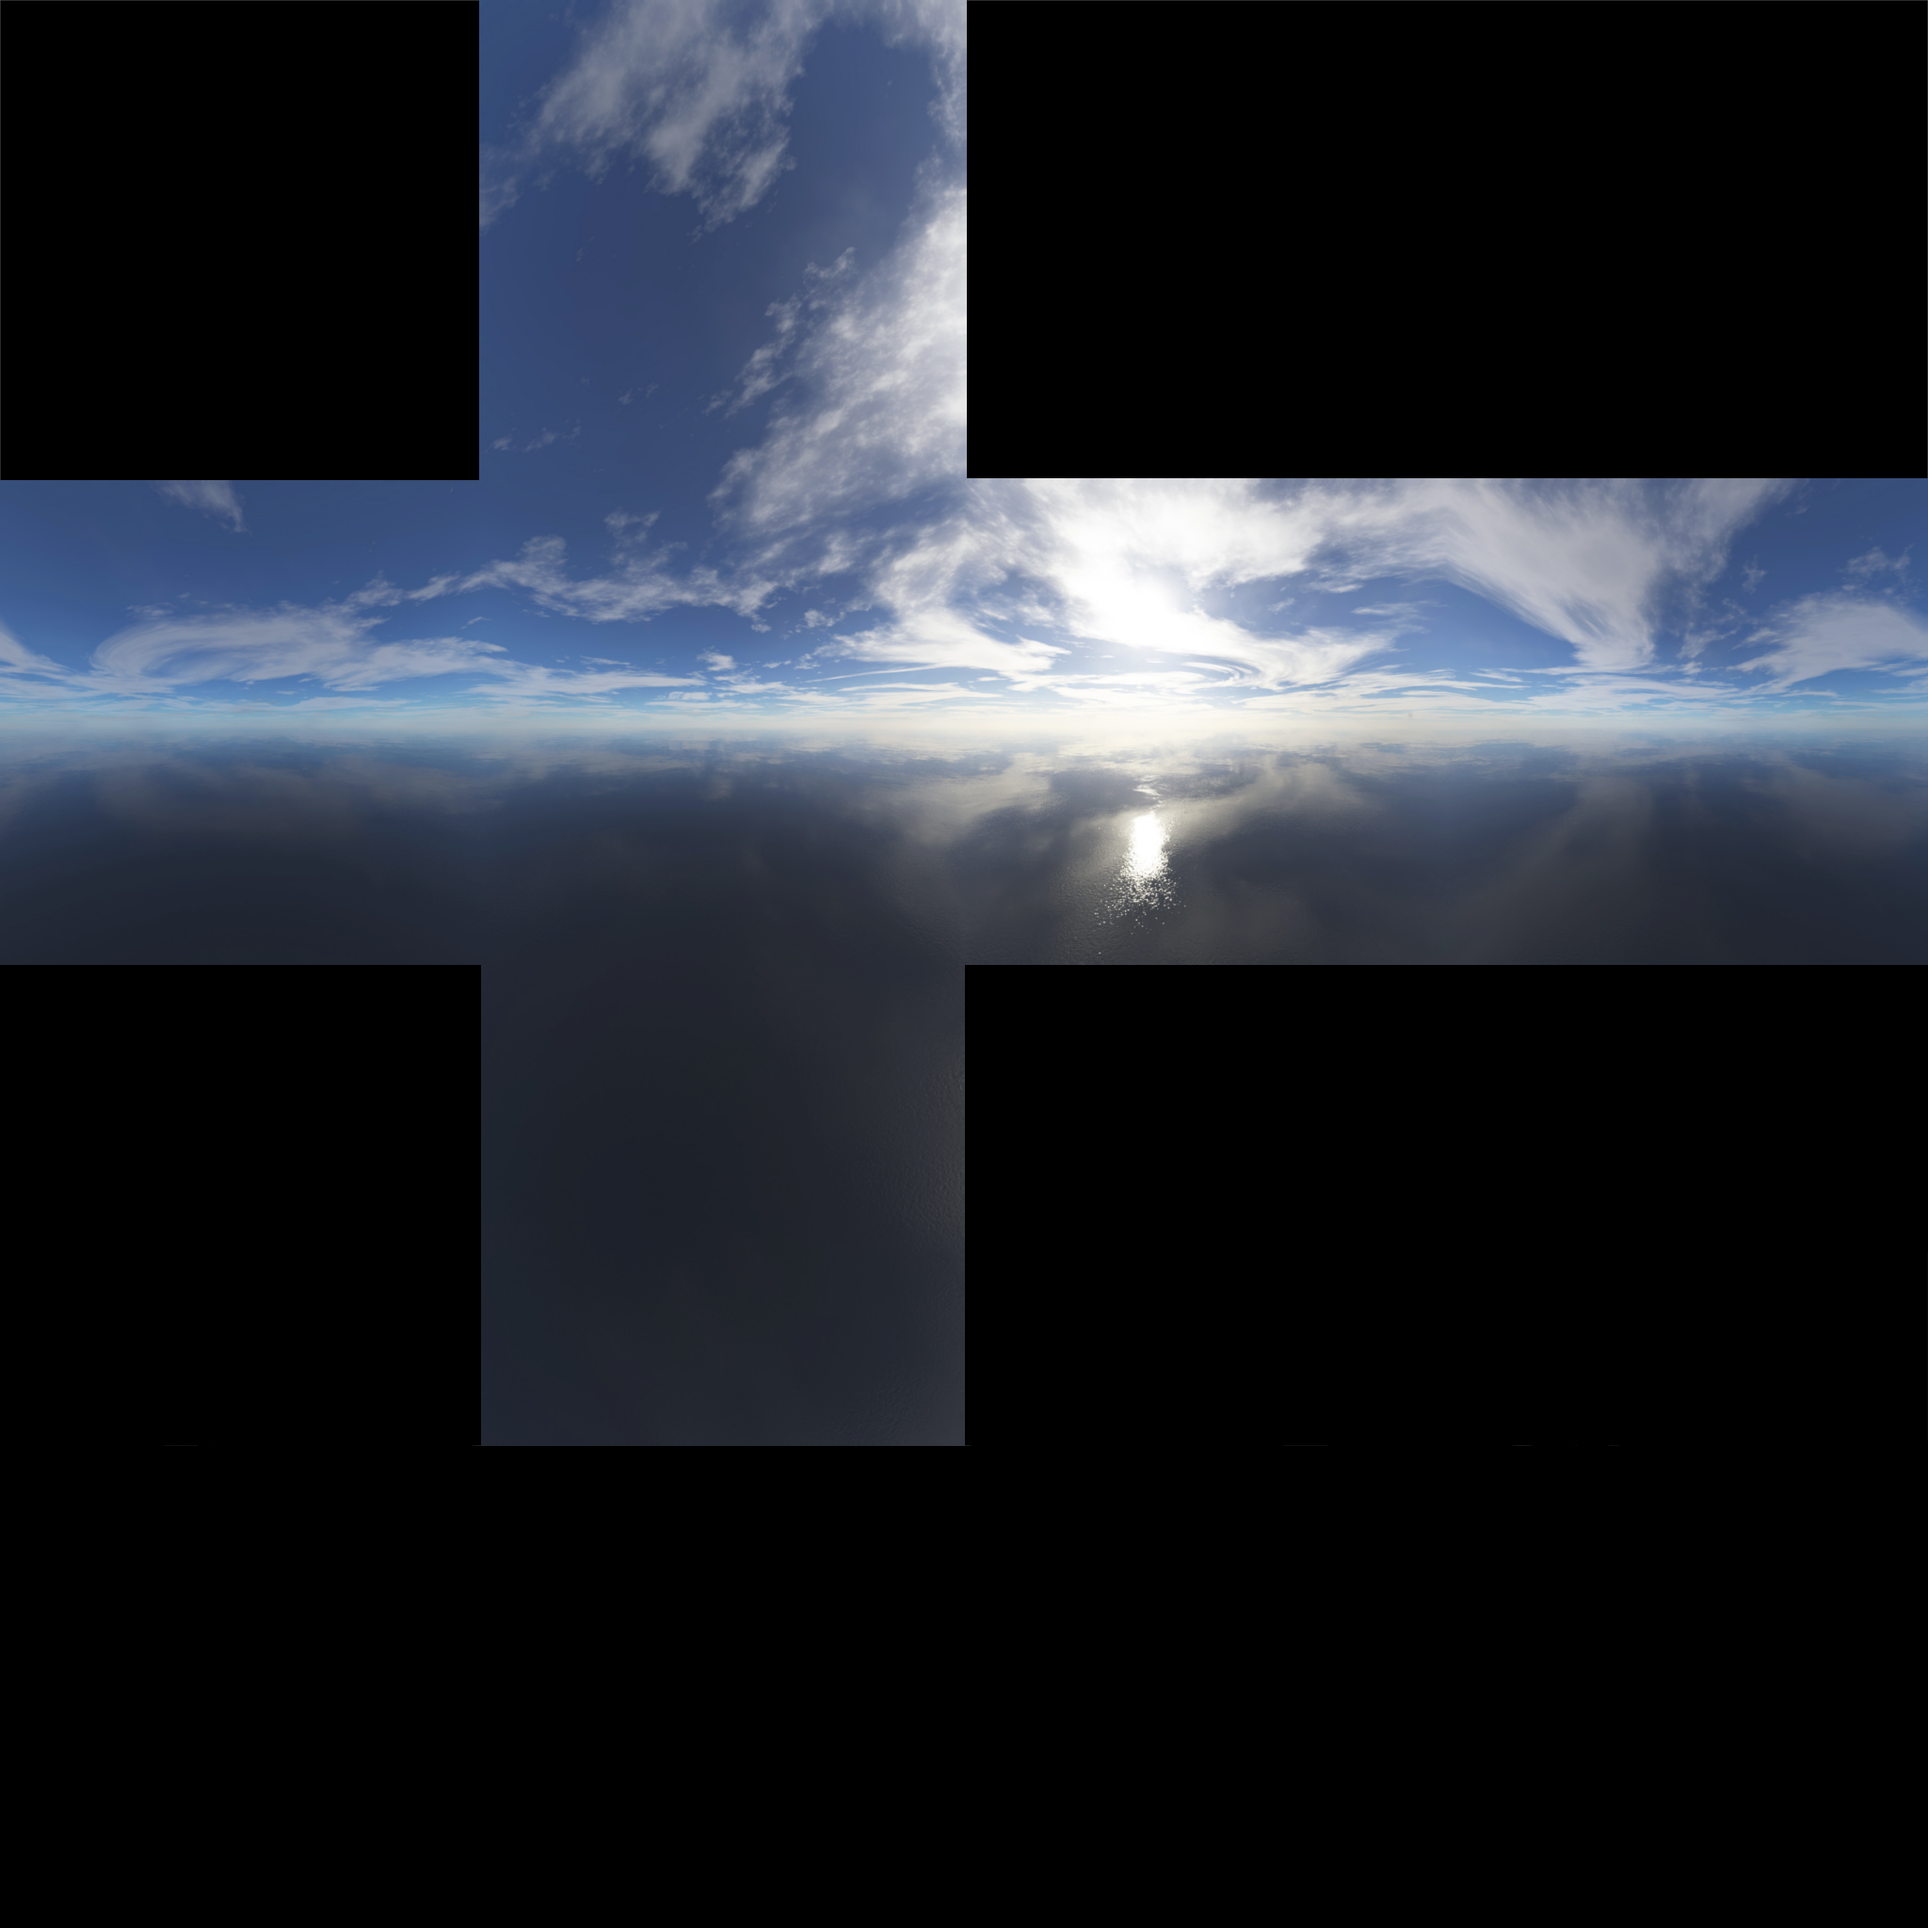
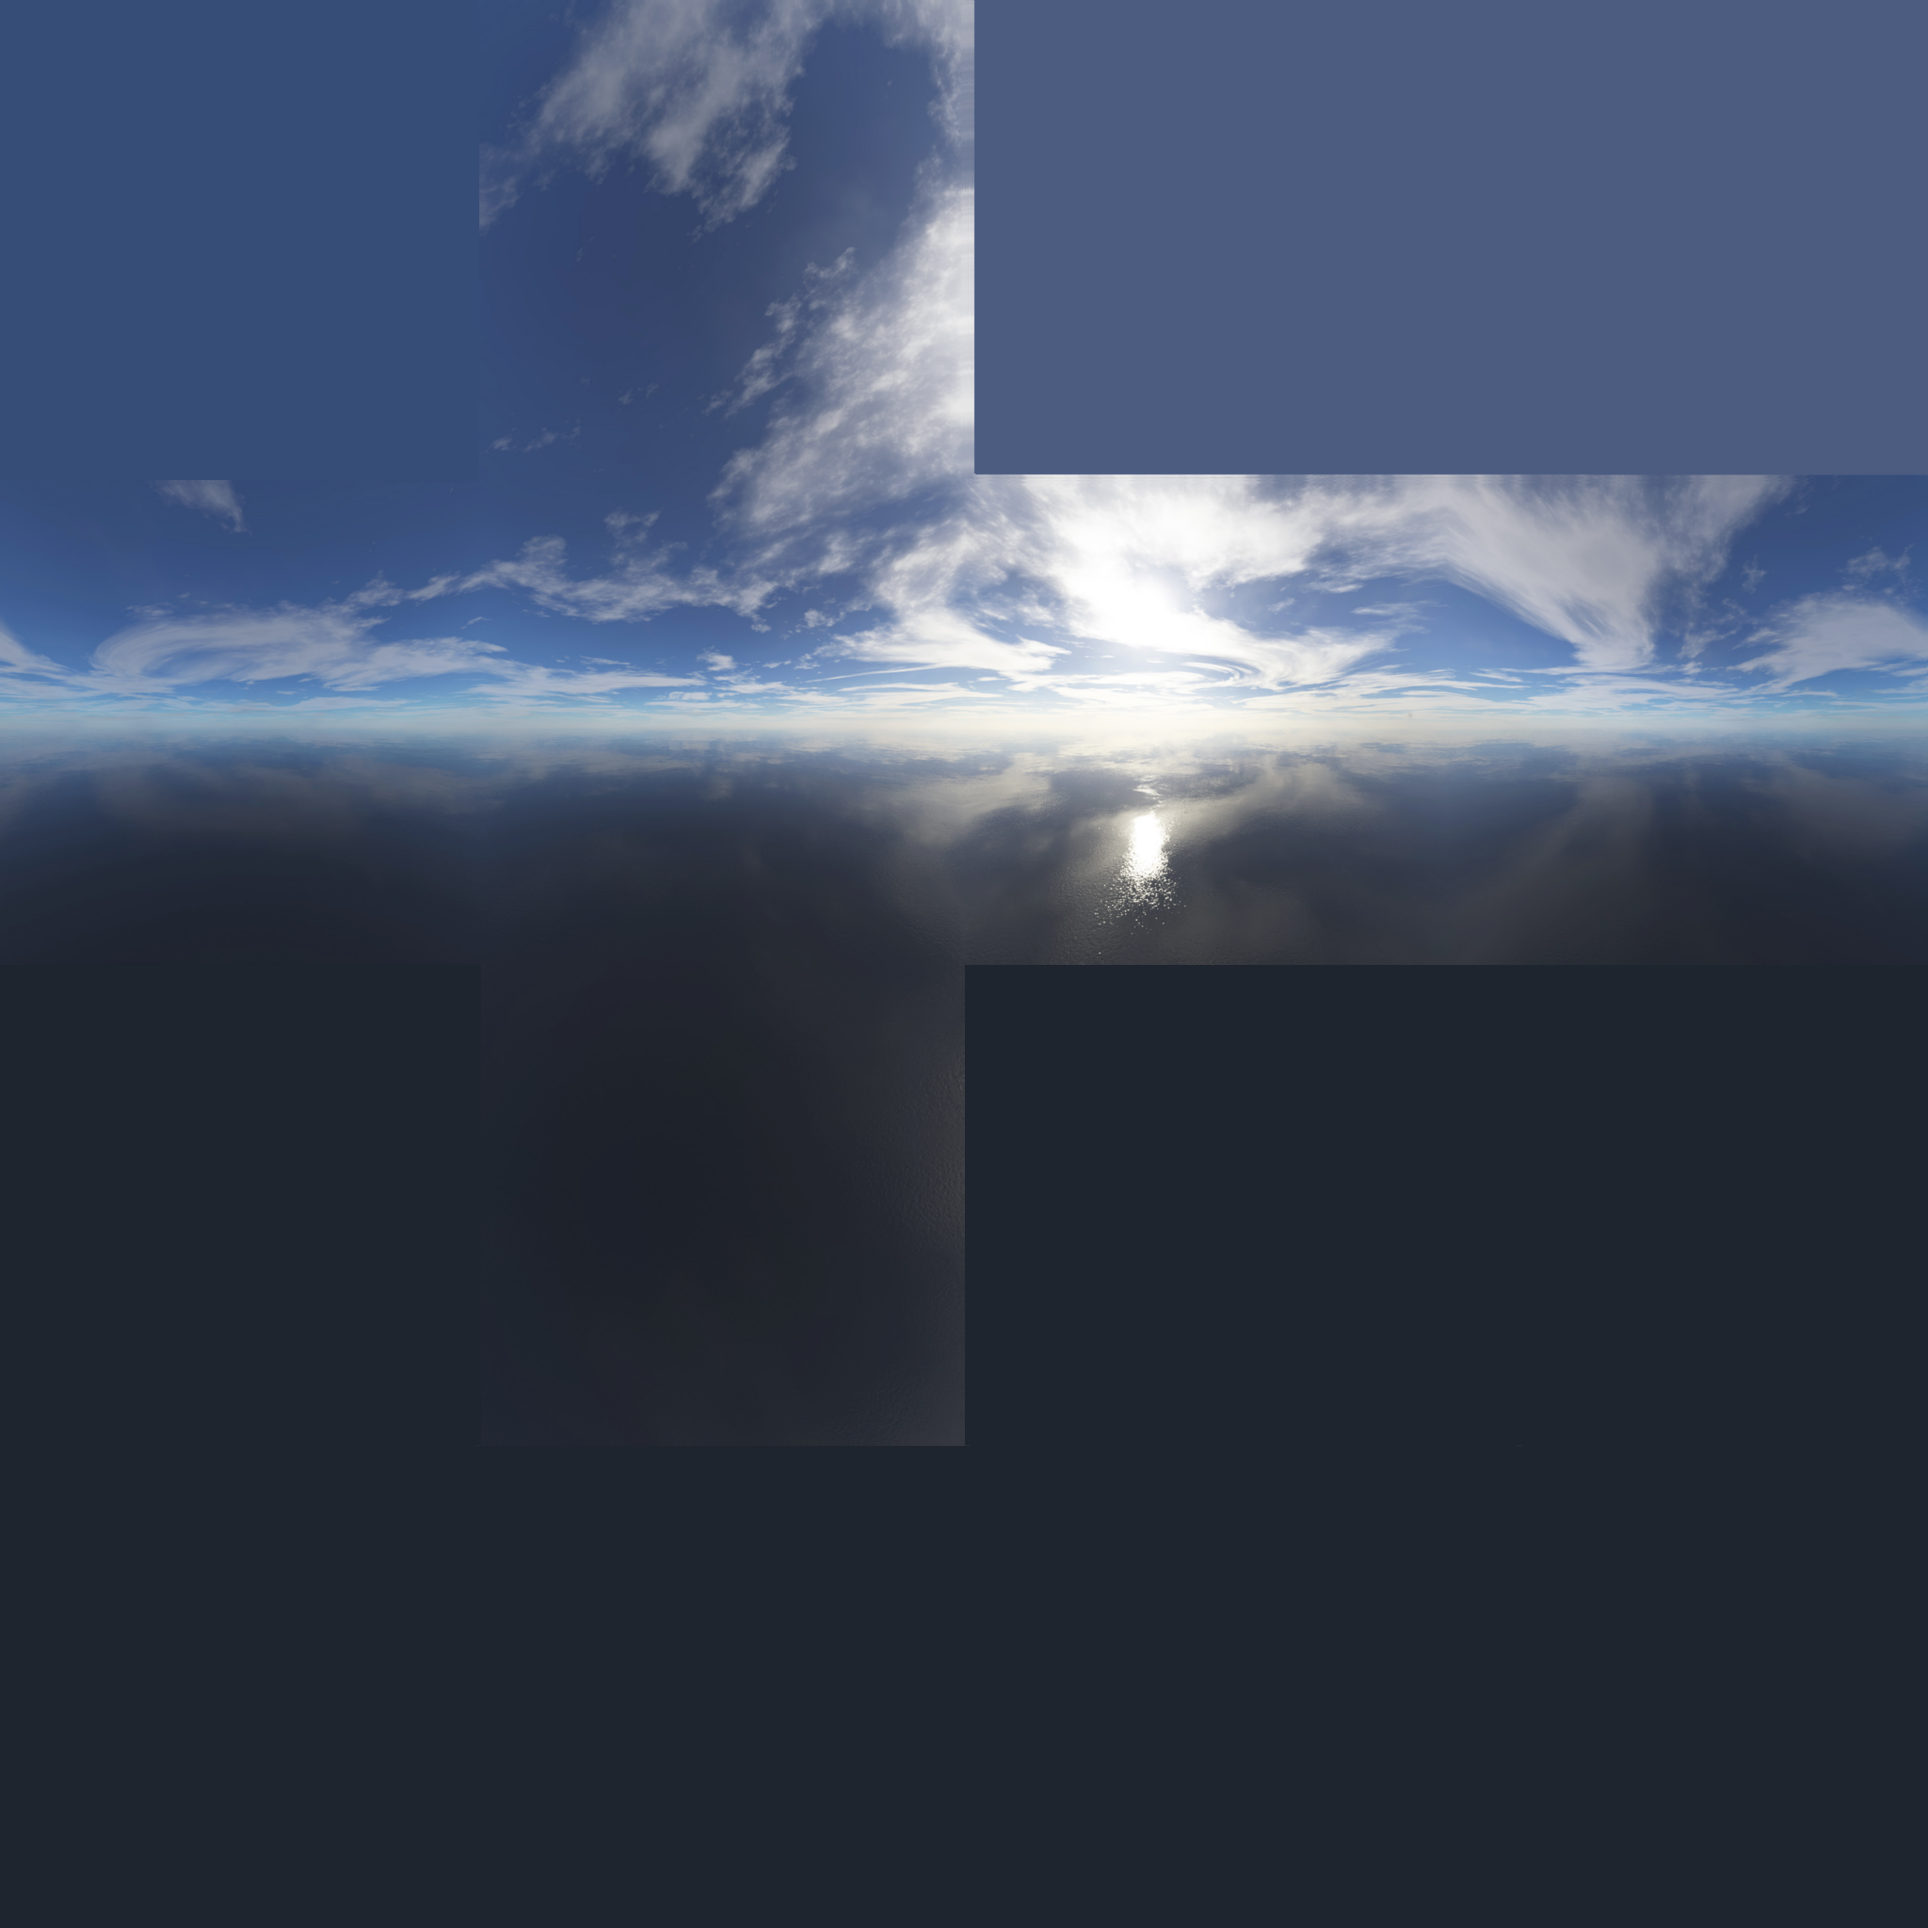
correction bug texture ciel

diff --git a/src/webGL.js b/src/webGL.js
@@ -280,10 +280,10 @@ function initBuffers() {
 			0.75, 0.25,
 			0.75, 0.5,
 			// Top
-			0.25, 0.0,
+			0.25, 0.001, //0.001 rustine pour le ciel
 			0.25, 0.25,
 			0.5,  0.25,
-			0.5,  0.0,
+			0.5,  0.001, //0.001 rustine pour le ciel
 			// Bottom
 			0.25, 0.75,
 			0.5,  0.75,
@@ -382,8 +382,8 @@ function initTextures() {
 function handleTextureLoaded(image, texture) {
   gl.bindTexture(gl.TEXTURE_2D, texture);
   gl.texImage2D(gl.TEXTURE_2D, 0, gl.RGBA, gl.RGBA, gl.UNSIGNED_BYTE, image);
-  gl.texParameteri(gl.TEXTURE_2D, gl.TEXTURE_MAG_FILTER, gl.LINEAR);
-  gl.texParameteri(gl.TEXTURE_2D, gl.TEXTURE_MIN_FILTER, gl.LINEAR_MIPMAP_NEAREST);
+  //gl.texParameteri(gl.TEXTURE_2D, gl.TEXTURE_MAG_FILTER, gl.LINEAR);
+  //gl.texParameteri(gl.TEXTURE_2D, gl.TEXTURE_MIN_FILTER, gl.LINEAR_MIPMAP_NEAREST);
   gl.generateMipmap(gl.TEXTURE_2D);
   gl.bindTexture(gl.TEXTURE_2D, null);
 }
